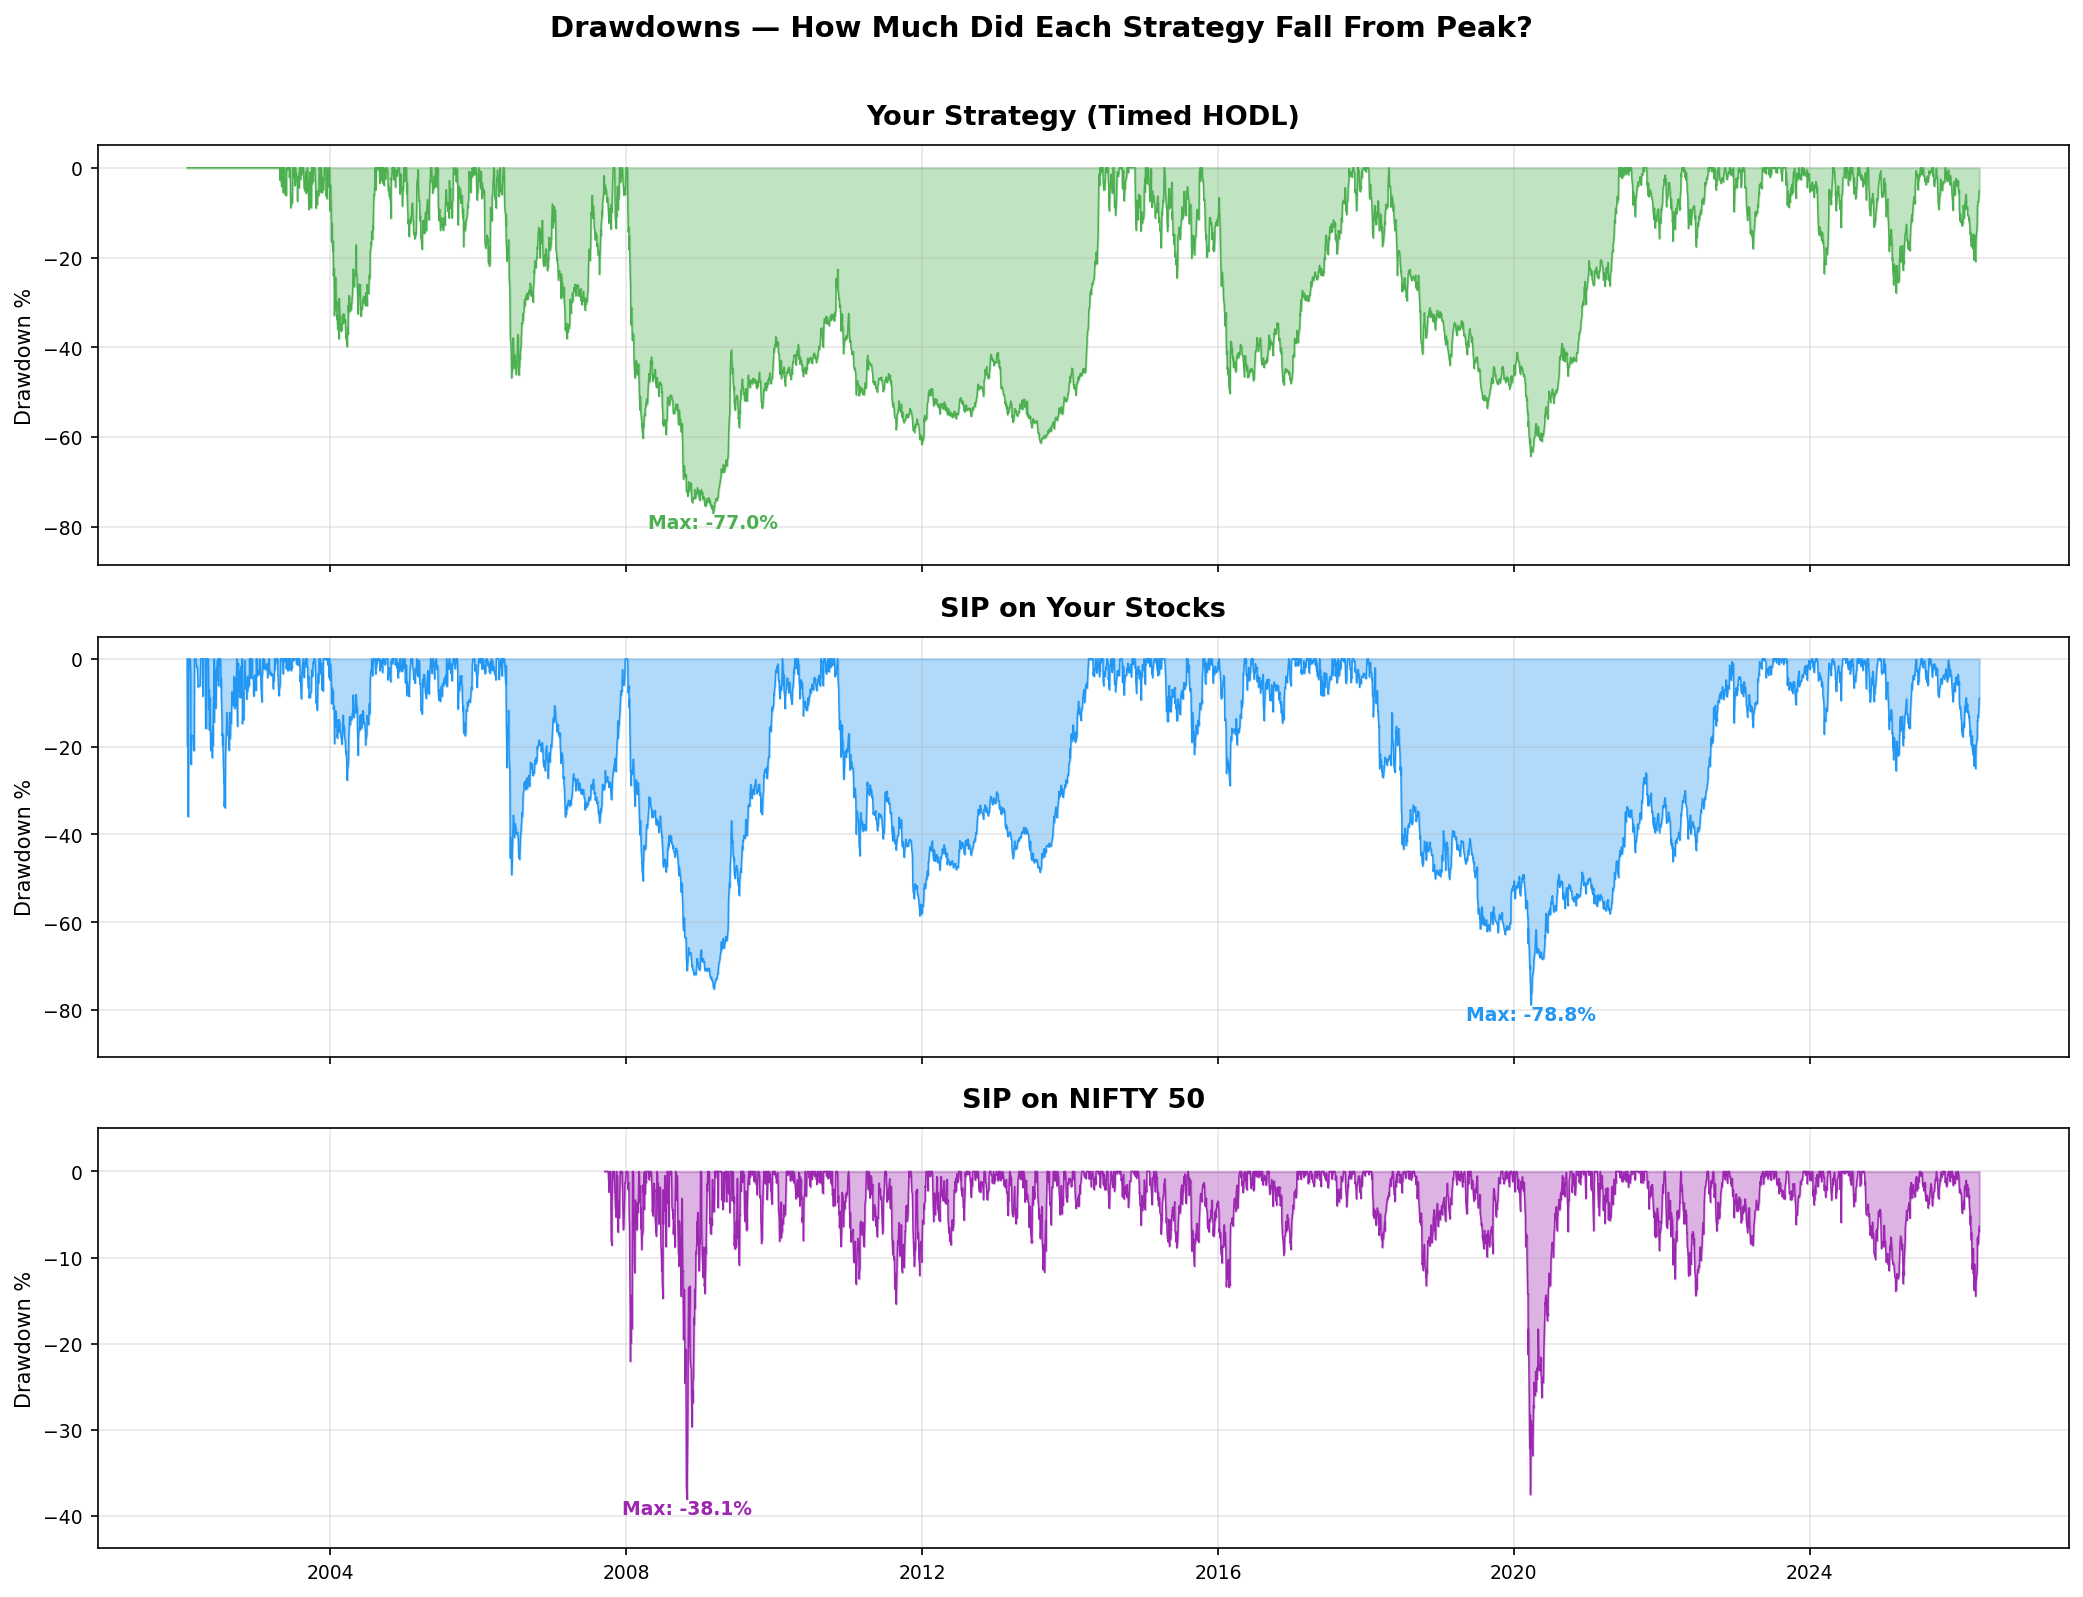
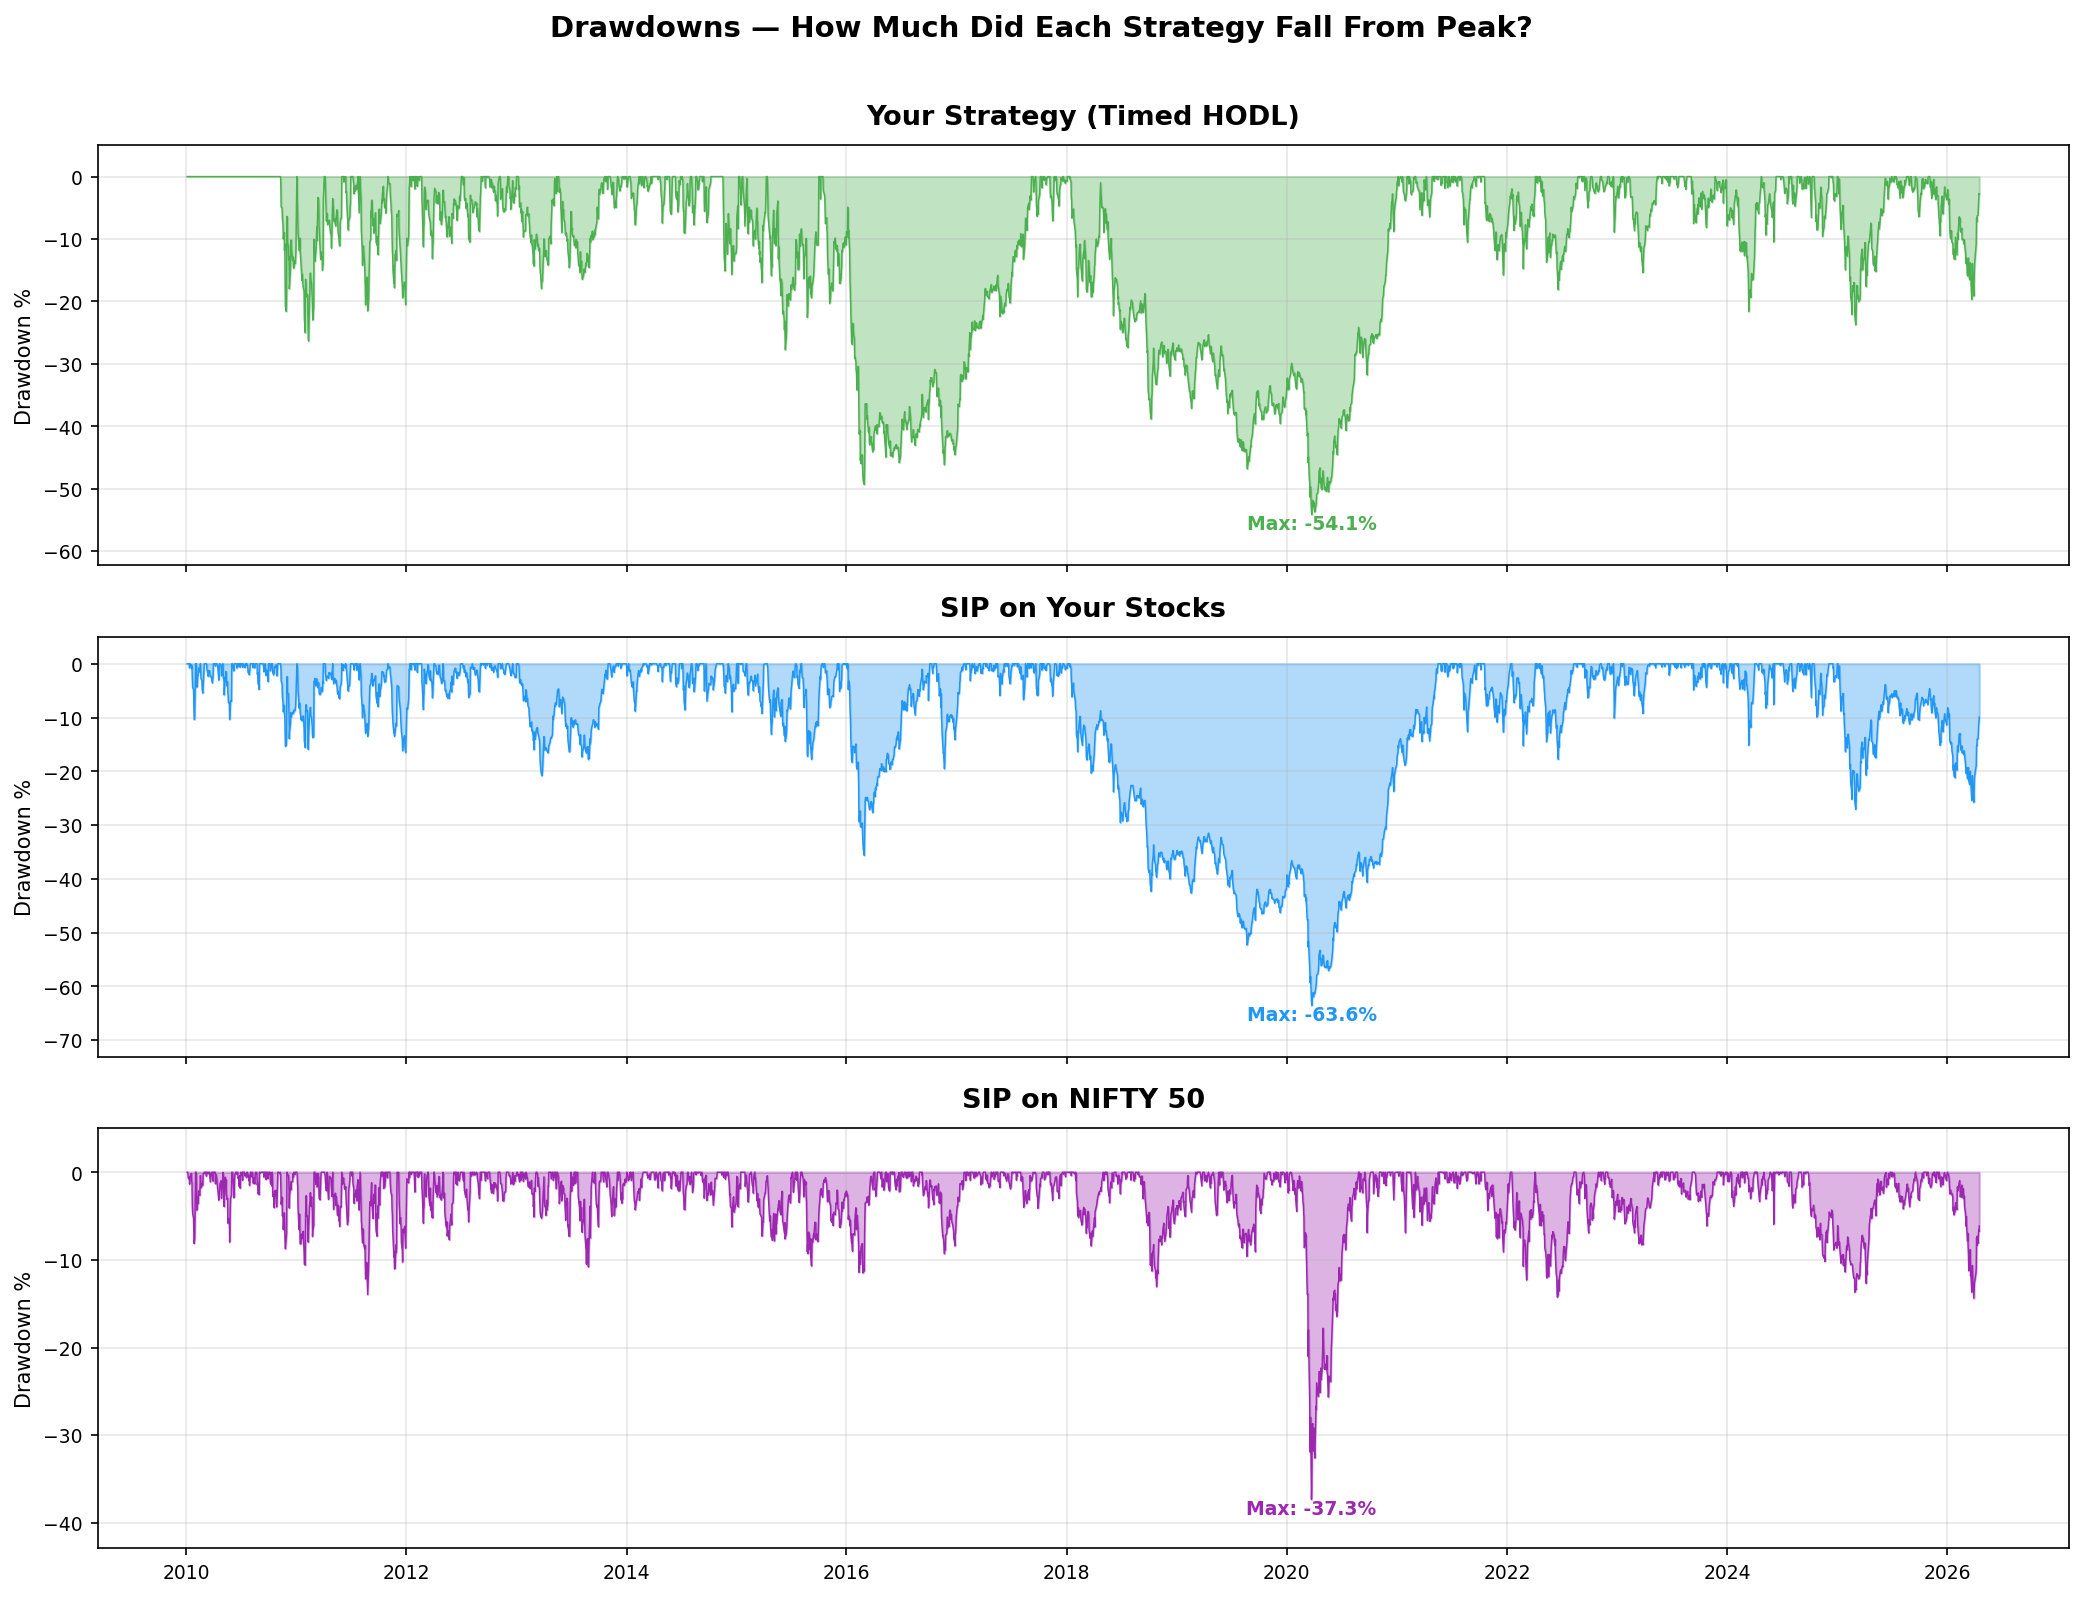
Recalibrate backtest to 2010 start with realistic salary assumptions
Start from 2010 (NIFTY data availability), salary ₹22K→₹1L/mo over 16 years.
NIFTY SIP now uses identical monthly investment schedule for fair comparison.
Updated README and context.md with new results.

diff --git a/backtest.py b/backtest.py
@@ -41,9 +41,9 @@ LABEL_EXIT  = "Timed Entry+Exit"
 LABEL_NIFTY = "SIP on NIFTY 50"
 
 CONFIG = {
-    "start": "2000-01-01",
+    "start": "2010-01-01",
     "end": "2026-04-20",
-    "initial_salary": 10_000,
+    "initial_salary": 22_000,
     "invest_pct": 0.25,
     "salary_growth": 0.10,
     "bb_length": 200,
@@ -264,13 +264,13 @@ def simulate_timed_exit(stock_dfs, symbols, monthly_inv, bb_sig, imp_sig, imp_st
         records.append({"date": dt, "portfolio": _portfolio_value(holdings, last_price, symbols, cash), "cash": cash})
     return pd.DataFrame(records).set_index("date"), cashflows, trade_log
 
-def simulate_nifty_sip(cfg, slippage_bps=5):
+def simulate_nifty_sip(cfg, monthly_inv, slippage_bps=5):
+    """SIP into NIFTY 50 using the same monthly investment schedule as the portfolio."""
     print("  Downloading NIFTY 50...")
     data = yf.download("^NSEI", start=cfg["start"], end=cfg["end"], progress=False)
     if data.empty:
         return None, None
     data = flatten_cols(data).dropna()
-    monthly_inv = build_monthly_investments(data.index, cfg)
     units = cash = 0.0
     done_months = set()
     records, cashflows = [], []
@@ -548,8 +548,8 @@ def chart_8_summary_table(metrics_list, total_invested, n_stocks, n_signals, n_s
         f"Period: {a['start_date']} → {a['end_date']}  ({a['years']:.0f} years)\n"
         f"Salary: ₹{a['start_salary']:,}/mo → ₹{a['end_salary']:,.0f}/mo  ({a['hike_pct']:.0f}% annual hike)\n"
         f"Monthly SIP: ₹{a['start_monthly_sip']:,.0f} → ₹{a['end_monthly_sip']:,.0f}  ({a['invest_pct']:.0f}% of salary)\n"
-        f"Total Invested: ₹{total_invested/100000:.1f}L  |  Inflation: {a['inflation_rate']:.0f}%/yr  |  "
-        f"₹1 in {a['start_date'].year} ≈ ₹{a['inflation_factor']:.1f} today"
+        f"Total Invested: ₹{total_invested/100000:.1f}L  (₹{total_invested/a['inflation_factor']/100000:.1f}L in {a['start_date'].year} rupees)  |  "
+        f"Inflation: {a['inflation_rate']:.0f}%/yr  |  ₹1 in {a['start_date'].year} ≈ ₹{a['inflation_factor']:.1f} today"
     )
     ax_top.text(0.5, 0.5, assumption_text, transform=ax_top.transAxes, fontsize=11,
                 va="center", ha="center", family="monospace",
@@ -647,9 +647,8 @@ def print_summary(metrics_list, total_invested, n_stocks, n_signals, n_bought, c
     print(f"  Period:             {a['start_date']} → {a['end_date']} ({a['years']:.1f} years)")
     print(f"  Starting salary:    ₹{a['start_salary']:,}/month → ₹{a['end_salary']:,.0f}/month ({a['hike_pct']:.0f}% annual hike)")
     print(f"  Monthly SIP:        ₹{a['start_monthly_sip']:,.0f} → ₹{a['end_monthly_sip']:,.0f} ({a['invest_pct']:.0f}% of salary)")
-    print(f"  Total invested:     ₹{total_invested/100000:.1f}L over {a['years']:.0f} years")
-    print(f"  Inflation (6%/yr):  ₹{total_invested/100000:.1f}L today = ₹{total_invested/a['inflation_factor']/100000:.1f}L in {int(a['start_date'].year)} rupees")
-    print(f"                      ₹1 in {int(a['start_date'].year)} = ₹{a['inflation_factor']:.1f} today")
+    print(f"  Total invested:     ₹{total_invested/100000:.1f}L (inflation-adjusted: ₹{total_invested/a['inflation_factor']/100000:.1f}L in {int(a['start_date'].year)} rupees)")
+    print(f"  Inflation (6%/yr):  ₹1 in {int(a['start_date'].year)} = ₹{a['inflation_factor']:.1f} today")
 
     print(f"\n{'═'*100}")
     print(f"  RESULTS — {n_stocks} stocks, ₹{total_invested/100000:.1f}L invested")
@@ -717,7 +716,7 @@ def main():
     sip_sim, sip_cf = simulate_sip(stock_dfs, sig_syms, monthly_inv, cfg["slippage_bps"])
     timed_sim, timed_cf, buy_log = simulate_timed_hodl(stock_dfs, sig_syms, monthly_inv, bb_sig, imp_sig, cfg["slippage_bps"])
     exit_sim, exit_cf, trade_log = simulate_timed_exit(stock_dfs, sig_syms, monthly_inv, bb_sig, imp_sig, imp_state, cfg["slippage_bps"])
-    nifty_sim, nifty_cf = simulate_nifty_sip(cfg)
+    nifty_sim, nifty_cf = simulate_nifty_sip(cfg, monthly_inv)
 
     m_timed = compute_metrics(timed_sim["portfolio"], LABEL_TIMED, timed_cf)
     m_sip = compute_metrics(sip_sim["portfolio"], LABEL_SIP, sip_cf)

diff --git a/README.md b/README.md
@@ -141,57 +141,56 @@ python3 backtest.py
 
 Generates 8 charts in `backtest_output/` + console summary.
 
-### Latest Results (61 stocks, 2002–2026)
+### Latest Results (61 stocks, 2010–2026)
 
 ```
 ════════════════════════════════════════════════════════════════════════════════════════════════════
   INVESTMENT ASSUMPTIONS
 ────────────────────────────────────────────────────────────────────────────────────────────────────
-  Period:             2002-01-24 → 2026-04-17 (24.2 years)
-  Starting salary:    ₹10,000/month → ₹98,497/month (10% annual hike)
-  Monthly SIP:        ₹2,500 → ₹24,624 (25% of salary)
-  Total invested:     ₹27.5L over 24 years
-  Inflation (6%/yr):  ₹27.5L today = ₹6.7L in 2002 rupees
-                      ₹1 in 2002 = ₹4.1 today
+  Period:             2010-01-04 → 2026-04-17 (16.3 years)
+  Starting salary:    ₹22,000/month → ₹101,089/month (10% annual hike)
+  Monthly SIP:        ₹5,500 → ₹25,272 (25% of salary)
+  Total invested:     ₹24.7L (inflation-adjusted: ₹9.6L in 2010 rupees)
+  Inflation (6%/yr):  ₹1 in 2010 = ₹2.6 today
 
 ════════════════════════════════════════════════════════════════════════════════════════════════════
-  RESULTS — 61 stocks, ₹27.5L invested
+  RESULTS — 61 stocks, ₹24.7L invested
 ════════════════════════════════════════════════════════════════════════════════════════════════════
                             Your Strategy (Timed HODL)     SIP on Your Stocks       Timed Entry+Exit        SIP on NIFTY 50
   ───────────────────────────────────────────────────────────────────────────────────────────────
-  Final Value                              ₹256.0L                ₹317.2L                  ₹9.8L                 ₹34.1L
-  Inflation-Adj Value                       ₹62.4L                 ₹77.3L                  ₹2.4L                  ₹8.3L
-  Wealth Multiple                             9.3x                  11.5x                   0.4x                   1.2x
-  Real Multiple (infl-adj)                    2.3x                   2.8x                   0.1x                   0.3x
-  XIRR                                       20.3%                  21.9%                 -18.2%                  10.9%
-  Real XIRR (minus 6% infl)                  14.3%                  15.9%                 -24.2%                   4.9%
-  Sharpe                                      0.98                   0.92                   0.62                   1.13
-  Sortino                                     1.88                   1.58                   1.17                   2.47
-  Max Drawdown                              -77.0%                 -78.8%                 -80.9%                 -38.1%
-  Max DD Duration                        1574 days              1312 days              2056 days               184 days
-  Volatility                                 41.1%                  47.0%                  45.3%                  34.7%
+  Final Value                              ₹194.2L                ₹197.3L                  ₹9.9L                 ₹52.3L
+  Inflation-Adj Value                       ₹75.2L                 ₹76.4L                  ₹3.8L                 ₹20.2L
+  Wealth Multiple                             7.9x                   8.0x                   0.4x                   2.1x
+  Real Multiple (infl-adj)                    3.0x                   3.1x                   0.2x                   0.8x
+  XIRR                                       26.9%                  27.0%                 -18.5%                  10.9%
+  Real XIRR (minus 6% infl)                  20.9%                  21.0%                 -24.5%                   4.9%
+  Sharpe                                      1.24                   1.28                   0.76                   1.13
+  Sortino                                     2.83                   3.00                   1.58                   3.40
+  Max Drawdown                              -54.1%                 -63.6%                 -55.6%                 -37.3%
+  Max DD Duration                         733 days               820 days               589 days               183 days
+  Volatility                                 42.8%                  40.7%                  49.2%                  37.7%
 
-  Buy signals fired on 178 days across 48/61 stocks
-  Cash drag (Your Strategy): 6.8%
+  Buy signals fired on 136 days across 46/61 stocks
+  Cash drag (Your Strategy): 6.2%
 ```
 
 ### Key Findings
 
 | Metric | Your Strategy | SIP (same stocks) | NIFTY 50 SIP |
 |---|---|---|---|
-| Final Value | ₹256L | ₹317L | ₹34L |
-| Inflation-Adjusted | ₹62L | ₹77L | ₹8L |
-| XIRR | 20.3% | 21.9% | 10.9% |
-| Real XIRR (−6% inflation) | **14.3%** | 15.9% | 4.9% |
-| Sharpe | **0.98** | 0.92 | 1.13 |
-| Sortino | **1.88** | 1.58 | 2.47 |
-| Max Drawdown | **-77%** | -79% | -38% |
-| Volatility | **41%** | 47% | 35% |
+| Final Value | ₹194L | ₹197L | ₹52L |
+| Inflation-Adjusted | ₹75L | ₹76L | ₹20L |
+| XIRR | 26.9% | 27.0% | 10.9% |
+| Real XIRR (−6% inflation) | **20.9%** | 21.0% | 4.9% |
+| Sharpe | 1.24 | **1.28** | 1.13 |
+| Sortino | 2.83 | 3.00 | 3.40 |
+| Max Drawdown | **-54%** | -64% | -37% |
+| Volatility | 42.8% | **40.7%** | 37.7% |
 
-- **Both strategies crush NIFTY 50 by ~10x** — stock picking matters more than timing
-- **SIP wins on absolute returns** (+19% more), **Timed HODL wins on risk-adjusted metrics** (higher Sharpe, Sortino, lower volatility)
-- **Real returns beat inflation easily** — 14.3% real XIRR for Timed HODL vs 4.9% for NIFTY 50
-- **Cash drag is only 6.8%** — 60+ stocks keep money deployed
+- **Both strategies crush NIFTY 50 by ~4x** — stock picking matters more than timing
+- **Timed HODL and SIP are neck-and-neck on returns** — but Timed HODL has significantly lower max drawdown (-54% vs -64%)
+- **Real returns beat inflation easily** — 20.9% real XIRR for Timed HODL vs 4.9% for NIFTY 50
+- **Cash drag is only 6.2%** — 60+ stocks keep money deployed
 - **Entry+Exit is terrible** — selling on MACD Sell destroys compounding
 
 ### Charts

diff --git a/context.md b/context.md
@@ -4,15 +4,15 @@ Long-only signal bot for NSE stocks: BB + Impulse MACD timing strategy with Tele
 # Current Status
 - **Bot**: Production-ready, runs via GitHub Actions cron (`hodl.yml`)
 - **Backtest**: Focused portfolio-level simulation. stocks.txt stocks share a single monthly budget. Compares 3 strategies + NIFTY 50 benchmark. Generates 8 clean PNG charts + console summary.
-- **Latest results** (2026-04-20, 61 stocks, ₹27.5L invested over 24 years):
-  - Your Strategy (Timed HODL): ₹256L, XIRR 20.3%, Sharpe 0.98, MaxDD -77%
-  - SIP on Your Stocks: ₹317L, XIRR 21.9%, Sharpe 0.92, MaxDD -79%
-  - SIP on NIFTY 50: ₹34L, XIRR 10.9%, Sharpe 1.13, MaxDD -38%
-  - Timed Entry+Exit: ₹9.8L — destroys returns, don't use
-  - Cash drag only 6.8% (48/61 stocks got signals across 178 buy days)
-  - Timed HODL wins on Sharpe (0.98 vs 0.92), Sortino (1.88 vs 1.58), volatility (41% vs 47%)
-  - SIP wins on absolute returns (+19% more final value)
-  - Both crush NIFTY 50 by ~10x
+- **Latest results** (2026-04-20, 61 stocks, ₹24.7L invested over 16.3 years):
+  - Your Strategy (Timed HODL): ₹194.2L, XIRR 26.9%, Sharpe 1.24, MaxDD -54.1%
+  - SIP on Your Stocks: ₹197.3L, XIRR 27.0%, Sharpe 1.28, MaxDD -63.6%
+  - SIP on NIFTY 50: ₹52.3L, XIRR 10.9%, Sharpe 1.13, MaxDD -37.3%
+  - Timed Entry+Exit: ₹9.9L — destroys returns, don't use
+  - Cash drag only 6.2% (46/61 stocks got signals across 136 buy days)
+  - Timed HODL wins on MaxDD (-54% vs -64%) and volatility risk
+  - SIP nearly matches on absolute returns (neck and neck)
+  - Both crush NIFTY 50 by ~4x
 
 # Architecture
 - `bot.py` — single entry point. Downloads all tickers once via `yf.download`, passes shared DataFrame to signal modules. Sends MarkdownV2 Telegram messages.
@@ -36,7 +36,7 @@ Long-only signal bot for NSE stocks: BB + Impulse MACD timing strategy with Tele
 - yfinance v1.x: columns are always MultiIndex `(Price, Ticker)`, no `auto_adjust` param
 - Risk-free rate = 6% (India) for Sharpe/Sortino
 - Slippage = 5 bps
-- Backtest salary: ₹10K/month starting 2000, 25% invested, 10% annual growth
+- Backtest salary: ₹22K/month starting 2010, 25% invested, 10% annual hike (reaches ~₹1L/month by 2026)
 
 # Key Files
 - `bot.py` — production entry point
